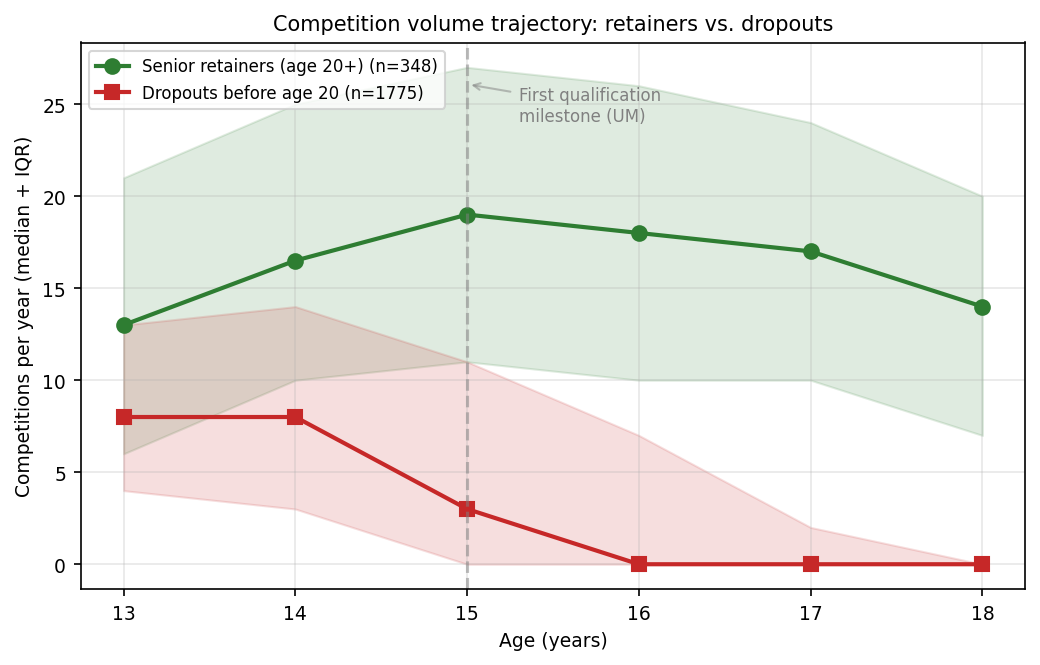
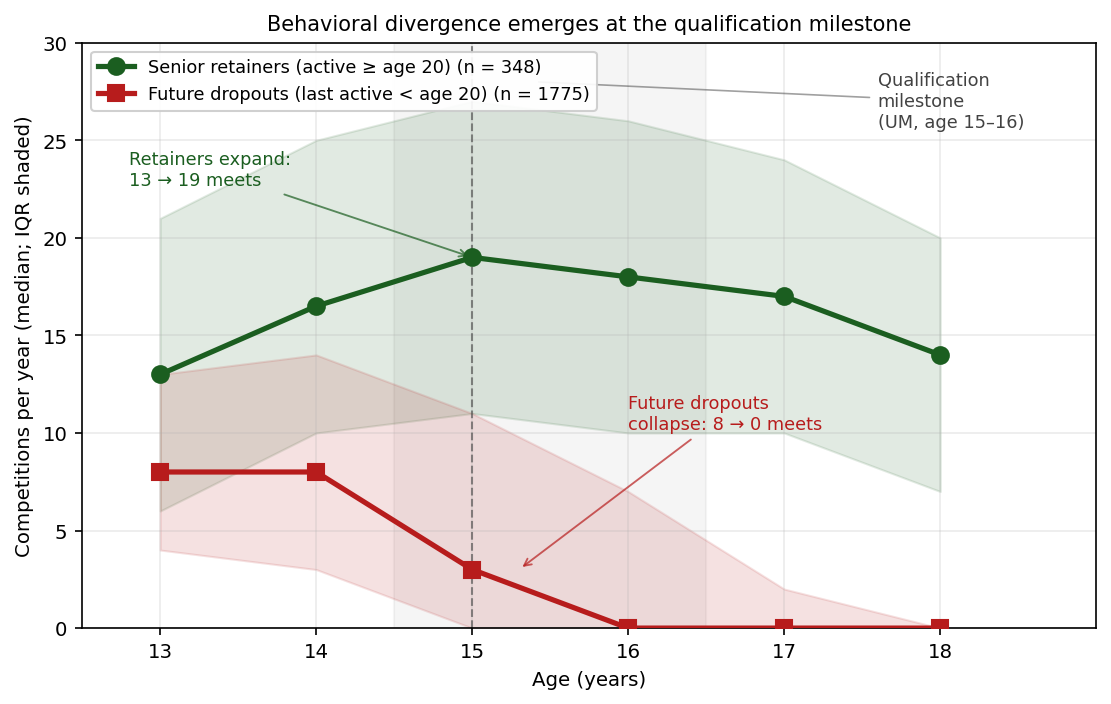
Polish Figure 1 + add conceptual model + forest plot
Figure 1 changes:
- Sharper title: "Behavioral divergence emerges at the qualification milestone"
- Annotated retainer expansion (13→19) and dropout collapse (8→0)
- Highlighted milestone window with grey vspan
- Cleaner axis label: "(median; IQR shaded)"

NEW Figure 2: Conceptual model
- 3 theoretical mechanisms (SCM/SDT/role-exit) on left
- Observable behavioral marker (competition volume) in middle
- Outcome (senior retention) on right
- Bottom prediction box
- Makes the contribution visually immediate

NEW Figure 5: Time-varying HR forest plot
- All 5 covariates × 3 follow-up windows on one chart
- Volume effect visibly fades from years 0-3 to years 6+
- Log-scale x-axis with protective/harmful annotation
- Replaces Table 5 as main figure (Table 5 stays in supplementary)

diff --git a/forskning/ncc-kohort/data/12_polish_figures.py b/forskning/ncc-kohort/data/12_polish_figures.py
@@ -1,0 +1,257 @@
+"""
+Steg 12: Polerer Figur 1 + lager ny konseptuell modell-figur (Figur 2)
+       + lager forest plot for time-varying HR (Figur 5, erstatter Table 5).
+"""
+
+import logging
+import warnings
+from pathlib import Path
+
+import pandas as pd
+import numpy as np
+import matplotlib.pyplot as plt
+import matplotlib as mpl
+import matplotlib.patches as mpatches
+
+warnings.filterwarnings("ignore", category=FutureWarning)
+
+logging.basicConfig(level=logging.INFO, format="%(asctime)s - %(levelname)s - %(message)s")
+logger = logging.getLogger(__name__)
+
+DATA_DIR = Path(__file__).parent
+ANALYSE_FILE = DATA_DIR / "analysedata_utvidet.csv"
+FIG_DIR = DATA_DIR.parent / "submission_pse" / "figures"
+
+mpl.rcParams["figure.dpi"] = 150
+mpl.rcParams["savefig.dpi"] = 150
+mpl.rcParams["savefig.bbox"] = "tight"
+mpl.rcParams["font.family"] = "DejaVu Sans"
+mpl.rcParams["font.size"] = 9.5
+mpl.rcParams["axes.titlesize"] = 10
+mpl.rcParams["axes.labelsize"] = 9.5
+
+
+# =============================================================================
+# Figure 1 — POLISHED: trajectory divergence
+# =============================================================================
+
+def polish_figure_1():
+    logger.info("Building polished Figure 1...")
+    df = pd.read_csv(ANALYSE_FILE)
+    df["retainer"] = df["aktiv_senior"]
+
+    ages = [13, 14, 15, 16, 17, 18]
+    vol_cols = [f"vol_age_{a}" for a in ages]
+
+    fig, ax = plt.subplots(figsize=(7.5, 4.8))
+
+    # Plot trajectories
+    for retainer, color, label, marker in [
+        (1, "#1B5E20", "Senior retainers (active ≥ age 20)", "o"),
+        (0, "#B71C1C", "Future dropouts (last active < age 20)", "s"),
+    ]:
+        sub = df[df["retainer"] == retainer]
+        n = len(sub)
+        medians = [sub[c].median() for c in vol_cols]
+        q25 = [sub[c].quantile(0.25) for c in vol_cols]
+        q75 = [sub[c].quantile(0.75) for c in vol_cols]
+        ax.plot(ages, medians, marker=marker, color=color, linewidth=2.5,
+                markersize=8, label=f"{label} (n = {n})", zorder=3)
+        ax.fill_between(ages, q25, q75, color=color, alpha=0.13, zorder=1)
+
+    # Highlight divergence area with vertical band
+    ax.axvspan(14.5, 16.5, color="gray", alpha=0.08, zorder=0)
+
+    # Milestone marker
+    ax.axvline(15, color="#424242", linestyle="--", alpha=0.6, linewidth=1, zorder=2)
+    ax.annotate(
+        "Qualification\nmilestone\n(UM, age 15–16)",
+        xy=(15.4, 28),
+        xytext=(17.6, 27),
+        fontsize=8.5, color="#424242",
+        ha="left", va="center",
+        arrowprops=dict(arrowstyle="-", color="#424242", alpha=0.5, lw=0.8),
+    )
+
+    # Annotate the dropout collapse
+    ax.annotate(
+        "Future dropouts\ncollapse: 8 → 0 meets",
+        xy=(15.3, 3), xytext=(16.0, 11),
+        fontsize=8.5, color="#B71C1C", ha="left", va="center",
+        arrowprops=dict(arrowstyle="->", color="#B71C1C", alpha=0.7, lw=0.9),
+    )
+
+    # Annotate the retainer trajectory
+    ax.annotate(
+        "Retainers expand:\n13 → 19 meets",
+        xy=(15, 19), xytext=(12.8, 23.5),
+        fontsize=8.5, color="#1B5E20", ha="left", va="center",
+        arrowprops=dict(arrowstyle="->", color="#1B5E20", alpha=0.7, lw=0.9),
+    )
+
+    ax.set_xlim(12.5, 19.0)
+    ax.set_ylim(0, 30)
+    ax.set_xlabel("Age (years)")
+    ax.set_ylabel("Competitions per year (median; IQR shaded)")
+    ax.set_title("Behavioral divergence emerges at the qualification milestone")
+    ax.legend(loc="upper left", fontsize=8.5, framealpha=0.92)
+    ax.grid(alpha=0.25)
+    ax.set_xticks(ages)
+
+    plt.tight_layout()
+    fig.savefig(FIG_DIR / "fig1_volume_trajectory.png", dpi=150, bbox_inches="tight")
+    plt.close(fig)
+    logger.info("  -> fig1_volume_trajectory.png (polished)")
+
+
+# =============================================================================
+# Figure 2 — NEW: conceptual model
+# =============================================================================
+
+def conceptual_model():
+    logger.info("Building conceptual model figure...")
+    fig, ax = plt.subplots(figsize=(8, 4.5))
+
+    ax.set_xlim(0, 10)
+    ax.set_ylim(0, 6)
+    ax.axis("off")
+
+    # Title
+    ax.text(5, 5.7, "A behavioral-marker model of youth-sport disengagement",
+            fontsize=11, fontweight="bold", ha="center")
+
+    # Boxes
+    def box(x, y, w, h, text, color, fontsize=9, fc="white", text_color="black"):
+        rect = mpatches.FancyBboxPatch(
+            (x - w/2, y - h/2), w, h,
+            boxstyle="round,pad=0.05",
+            linewidth=1.4, edgecolor=color, facecolor=fc, alpha=0.95,
+        )
+        ax.add_patch(rect)
+        ax.text(x, y, text, ha="center", va="center", fontsize=fontsize, color=text_color)
+
+    # Theoretical mechanisms (left)
+    ax.text(1.5, 4.85, "Theoretical mechanisms\n(not directly observed)",
+            fontsize=8.5, ha="center", style="italic", color="#555555")
+    box(1.5, 4.0, 2.5, 0.55, "Engagement balance\n(Scanlan SCM)", "#1976D2", 8.5)
+    box(1.5, 3.2, 2.5, 0.55, "Motivational quality\n(Ryan & Deci SDT)", "#1976D2", 8.5)
+    box(1.5, 2.4, 2.5, 0.55, "Role-exit deliberation\n(Ebaugh; Eliasson)", "#1976D2", 8.5)
+
+    # Behavioral marker (middle)
+    ax.text(5, 4.85, "Observable behavioral marker\n(this study)",
+            fontsize=8.5, ha="center", style="italic", color="#555555")
+    box(5, 3.2, 2.5, 1.5,
+        "Annual competition\nvolume\n\n(meets per year,\nages 13–18)",
+        "#2E7D32", 9.5, fc="#E8F5E9")
+
+    # Outcome (right)
+    ax.text(8.5, 4.85, "Outcome\n(this study)",
+            fontsize=8.5, ha="center", style="italic", color="#555555")
+    box(8.5, 3.2, 2.5, 1.5,
+        "Active senior\nretention\n\n(≥ 2 results in\nany year, age ≥ 20)",
+        "#C62828", 9.5, fc="#FFEBEE")
+
+    # Arrows
+    ax.annotate("", xy=(3.7, 3.2), xytext=(2.85, 3.2),
+                arrowprops=dict(arrowstyle="->", color="#888", lw=1.4))
+    ax.annotate("", xy=(7.15, 3.2), xytext=(6.3, 3.2),
+                arrowprops=dict(arrowstyle="->", color="#888", lw=1.4))
+
+    # Arrow labels
+    ax.text(3.3, 3.4, "produces\nfootprint in", fontsize=7.5, ha="center", color="#555")
+    ax.text(6.75, 3.4, "precedes", fontsize=7.5, ha="center", color="#555")
+
+    # Bottom hypothesis
+    ax.text(5, 0.85,
+            "Prediction: future retainers and future dropouts should differ in measurable competition behavior\n"
+            "before formal exit, with divergence intensifying at qualification-milestone years (age 15–16).",
+            fontsize=8.5, ha="center", style="italic",
+            bbox=dict(boxstyle="round,pad=0.4", facecolor="#FAFAFA", edgecolor="#BDBDBD"))
+
+    plt.tight_layout()
+    fig.savefig(FIG_DIR / "fig2_conceptual_model.png", dpi=150, bbox_inches="tight")
+    plt.close(fig)
+    logger.info("  -> fig2_conceptual_model.png")
+
+
+# =============================================================================
+# Figure 5 — NEW: forest plot for time-varying HR
+# =============================================================================
+
+def forest_plot_time_varying():
+    logger.info("Building time-varying HR forest plot...")
+
+    data = [
+        # (covariate, period, HR, lo, hi)
+        ("Volume at age 15–16 (per SD)", "Years 0–3 (age 13–17)", 0.14, 0.11, 0.16),
+        ("Volume at age 15–16 (per SD)", "Years 3–6 (age 16–19)", 0.69, 0.60, 0.79),
+        ("Volume at age 15–16 (per SD)", "Years 6+ (age 19+)", 0.96, 0.77, 1.19),
+        ("Championship types (per type)", "Years 0–3 (age 13–17)", 0.61, 0.55, 0.69),
+        ("Championship types (per type)", "Years 3–6 (age 16–19)", 0.88, 0.79, 0.99),
+        ("Championship types (per type)", "Years 6+ (age 19+)", 0.97, 0.78, 1.21),
+        ("Tyrving (per SD)", "Years 0–3 (age 13–17)", 1.07, 0.99, 1.15),
+        ("Tyrving (per SD)", "Years 3–6 (age 16–19)", 0.92, 0.84, 1.01),
+        ("Tyrving (per SD)", "Years 6+ (age 19+)", 0.94, 0.78, 1.13),
+        ("HHI early (per SD)", "Years 0–3 (age 13–17)", 0.97, 0.91, 1.05),
+        ("HHI early (per SD)", "Years 3–6 (age 16–19)", 0.93, 0.85, 1.02),
+        ("HHI early (per SD)", "Years 6+ (age 19+)", 1.02, 0.85, 1.21),
+        ("Female", "Years 0–3 (age 13–17)", 1.16, 1.02, 1.31),
+        ("Female", "Years 3–6 (age 16–19)", 1.06, 0.91, 1.23),
+        ("Female", "Years 6+ (age 19+)", 1.09, 0.85, 1.39),
+    ]
+
+    covariates = [
+        "Volume at age 15–16 (per SD)",
+        "Championship types (per type)",
+        "Tyrving (per SD)",
+        "HHI early (per SD)",
+        "Female",
+    ]
+    periods = ["Years 0–3 (age 13–17)", "Years 3–6 (age 16–19)", "Years 6+ (age 19+)"]
+    period_colors = {periods[0]: "#1565C0", periods[1]: "#6A1B9A", periods[2]: "#757575"}
+    period_offset = {periods[0]: 0.25, periods[1]: 0.0, periods[2]: -0.25}
+
+    fig, ax = plt.subplots(figsize=(7.5, 5.5))
+
+    for i, cov in enumerate(covariates):
+        for period in periods:
+            rec = [d for d in data if d[0] == cov and d[1] == period][0]
+            hr, lo, hi = rec[2], rec[3], rec[4]
+            y = len(covariates) - i + period_offset[period]
+            color = period_colors[period]
+            ax.plot([lo, hi], [y, y], color=color, linewidth=1.5)
+            ax.plot(hr, y, "o", color=color, markersize=7)
+
+    ax.axvline(1.0, color="black", linestyle="--", alpha=0.5, linewidth=0.9)
+    ax.set_yticks(range(1, len(covariates) + 1))
+    ax.set_yticklabels(covariates[::-1])
+    ax.set_xscale("log")
+    ax.set_xticks([0.1, 0.2, 0.5, 1.0, 2.0])
+    ax.set_xticklabels(["0.1", "0.2", "0.5", "1.0", "2.0"])
+    ax.set_xlabel("Hazard ratio (log scale) — protective ← 1 → harmful")
+    ax.set_title("Time-varying hazard ratios across follow-up periods")
+    ax.grid(axis="x", which="major", alpha=0.25)
+    ax.set_xlim(0.08, 2.2)
+
+    # Legend (outside plot area, on right)
+    handles = [plt.Line2D([0], [0], marker="o", color=period_colors[p], linewidth=1.5,
+                          markersize=7, label=p) for p in periods]
+    ax.legend(handles=handles, loc="upper left", bbox_to_anchor=(1.02, 1.0),
+              fontsize=8.5, title="Follow-up window", title_fontsize=8.5,
+              framealpha=0.92, borderaxespad=0)
+
+    plt.tight_layout()
+    fig.savefig(FIG_DIR / "fig5_time_varying_forest.png", dpi=150, bbox_inches="tight")
+    plt.close(fig)
+    logger.info("  -> fig5_time_varying_forest.png")
+
+
+def main():
+    polish_figure_1()
+    conceptual_model()
+    forest_plot_time_varying()
+    logger.info("Done.")
+
+
+if __name__ == "__main__":
+    main()
